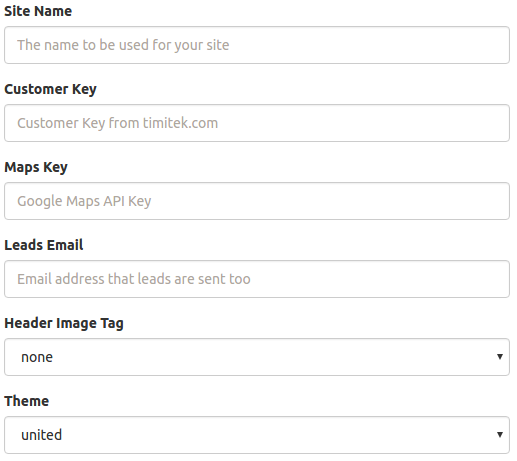
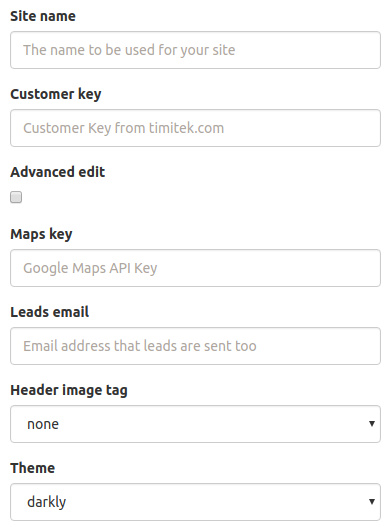
Updated documentation for WYSIWYG front end work

diff --git a/site/home_page_content/index.html b/site/home_page_content/index.html
@@ -260,8 +260,15 @@
 </li>
       
         <li class="md-nav__item">
-  <a href="#populating-content-with-the-blog-editor" title="Populating Content with the Blog Editor" class="md-nav__link">
-    Populating Content with the Blog Editor
+  <a href="#populating-content-with-the-modal-pop-up-dialogue-simple-edit-form" title="Populating Content with the Modal Pop-Up Dialogue (Simple Edit Form)" class="md-nav__link">
+    Populating Content with the Modal Pop-Up Dialogue (Simple Edit Form)
+  </a>
+  
+</li>
+      
+        <li class="md-nav__item">
+  <a href="#populating-content-with-the-blog-editor-advanced-edit" title="Populating Content with the Blog Editor (Advanced Edit)" class="md-nav__link">
+    Populating Content with the Blog Editor (Advanced Edit)
   </a>
   
 </li>
@@ -395,8 +402,15 @@
 </li>
       
         <li class="md-nav__item">
-  <a href="#populating-content-with-the-blog-editor" title="Populating Content with the Blog Editor" class="md-nav__link">
-    Populating Content with the Blog Editor
+  <a href="#populating-content-with-the-modal-pop-up-dialogue-simple-edit-form" title="Populating Content with the Modal Pop-Up Dialogue (Simple Edit Form)" class="md-nav__link">
+    Populating Content with the Modal Pop-Up Dialogue (Simple Edit Form)
+  </a>
+  
+</li>
+      
+        <li class="md-nav__item">
+  <a href="#populating-content-with-the-blog-editor-advanced-edit" title="Populating Content with the Blog Editor (Advanced Edit)" class="md-nav__link">
+    Populating Content with the Blog Editor (Advanced Edit)
   </a>
   
 </li>
@@ -444,10 +458,14 @@
 <p><img alt="homepage.png" src="../../img/screenshots/homepage.png" title="Home Page" /></p>
 <h2 id="editable-sections-click-and-build">Editable Sections (Click and Build)<a class="headerlink" href="#editable-sections-click-and-build" title="Permanent link">#</a></h2>
 <p>If you are logged in as an administrator (from the <strong>login</strong> button at the bottom of the website), each editable section will provide you with a button allowing you to create / edit content, as seen in the examples below.</p>
+<p>By default simple editing is enabled which will allow you to edit in place without leaving the home page via a simple modal pop-up dialogue.  If you have advanced editing enabled, you can perform more advanced editing features by being redirected to the back end editors from the quarx admin backend. For more information on this setting see <em>Advanced Edit</em> within the <a href="../Dashboard/post_installation">Post Installation</a> section.</p>
 <p><img alt="welcome_create_now.png" src="../../img/screenshots/welcome_create_now.png" title="Welcome Create Now" /></p>
 <p><img alt="featured_create_now.png" src="../../img/screenshots/featured_create_now.png" title="Featured Create Now" /></p>
-<h2 id="populating-content-with-the-blog-editor">Populating Content with the Blog Editor<a class="headerlink" href="#populating-content-with-the-blog-editor" title="Permanent link">#</a></h2>
-<p>When you click on of the create / edit buttons, you will be taken to the <strong>blog editor</strong>.  Even though you may not be interested in creating a blog, the blog editor is used to create content for these various sections on your website.  The blog editor allows us to associate tags with content you create.  Notice the instructions within each section that is able to be edited. There is mention of tagging a blog post with a specific word in order to have the content show up in this provided section.  This is how you are able create custom content within these sections on your home page.  </p>
+<h2 id="populating-content-with-the-modal-pop-up-dialogue-simple-edit-form">Populating Content with the Modal Pop-Up Dialogue (Simple Edit Form)<a class="headerlink" href="#populating-content-with-the-modal-pop-up-dialogue-simple-edit-form" title="Permanent link">#</a></h2>
+<p><img alt="simple_edit_form.png" src="../../img/screenshots/simple_edit_form.png" title="Simple Edit Form" /></p>
+<p>When simple editing is enabled (by default), you will be presented with a modal pop-up dialogue allowing you to edit the content in place.  You can specify a title, an icon to associate with the content, the general body of the content, as well as the ability to create links to the content with various sections on the home page via the <em>Also Post In</em> options.</p>
+<h2 id="populating-content-with-the-blog-editor-advanced-edit">Populating Content with the Blog Editor (Advanced Edit)<a class="headerlink" href="#populating-content-with-the-blog-editor-advanced-edit" title="Permanent link">#</a></h2>
+<p>When advanced editing is enabled, you will be directed to the "Blog Editor" within the quarx admin backend when you click on of the create / edit buttons, you will be taken to the <strong>blog editor</strong>.  Even though you may not be interested in creating a blog, the blog editor is used to create content for these various sections on your website.  The blog editor allows us to associate tags with content you create.  Notice the instructions within each section that is able to be edited. There is mention of tagging a blog post with a specific word in order to have the content show up in this provided section.  This is how you are able create custom content within these sections on your home page.  </p>
 <p>Content can be created with multiple tags associated with it to allow it to appear in multiple sections within the website.</p>
 <p>Some of the sections also provide special instructions for icons and images if used as the first element in the content.  Example, the <strong>feature</strong> section will prominently display an icon above it's section if an icon is provided as the first element in the content.  A testimonial will prominently display an image beside the testimonial if it is the first element in the content. Icon's can be inserted into the content by selecting the "icon editor" from the blog editors toolbar (<em>represented by the smiley face</em>).</p>
 <p><img alt="icon_toolbar.png" src="../../img/screenshots/icon_toolbar.png" title="Icon Toolbar" /></p>

diff --git a/site/Dashboard/getrealt_settings/index.html b/site/Dashboard/getrealt_settings/index.html
@@ -355,9 +355,10 @@
 <p><img alt="getrealt_settings.png" src="../../img/screenshots/getrealt_settings.png" title="GetRealT Settings" /></p>
 <p><strong>Site Name</strong> - This is the main identifier for your site.  This will be used in e-mails that go out, and displayed in the heading of your home page.</p>
 <p><strong>Customer Key</strong> - This is the customer key assigned to you from timitek that is used to provide the listing feeds to your site.  You can obtain your key at <a href="http://www.timitek.com">http://www.timitek.com</a>.</p>
+<p><strong>Advanced Edit</strong> - Advanced editing takes place in the quarx admin backend, when advanced editing is disable (unchecked), all edit buttons will present a dialogue box on the home page to allow basic editing functions without having to leave the webiste front end.</p>
 <p><strong>Maps Key</strong> - This the google maps API key that is necessary for displaying maps and directions on your listing details page.  You can obtain your google maps API key at <a href="https://developers.google.com/maps/documentation/javascript/get-api-key">https://developers.google.com/maps/documentation/javascript/get-api-key</a>.</p>
+<p><strong>Header Image Tag</strong> - There is a default set of abstract images that will be displayed at the top of the pages on your site, however you can override this with all images that have been uploaded with a specific tag associated with them.</p>
 <p><strong>Leads Email</strong> - This is the email address that any leads which are captured will be sent too.</p>
-<p><strong>Header Image Tag</strong> - This allows you to override the random images that appear at the top of your website pages, with images from your gallery.  The list of tags which are presented are tags assigned to images from your gallery.</p>
 <p><strong>Theme</strong> - This is the the theme that defines the look and feel of your website.</p>
                 
                   

diff --git a/site/post_installation/index.html b/site/post_installation/index.html
@@ -516,7 +516,9 @@
 <p><img alt="getrealt_settings.png" src="../../img/screenshots/getrealt_settings.png" title="GetRealT Settings" /></p>
 <p><strong>Site Name</strong> - This is the main identifier for your site.  This will be used in e-mails that go out, and displayed in the heading of your home page.</p>
 <p><strong>Customer Key</strong> - This is the customer key assigned to you from timitek that is used to provide the listing feeds to your site.  You can obtain your key at <a href="http://www.timitek.com">http://www.timitek.com</a>.</p>
+<p><strong>Advanced Edit</strong> - Advanced editing takes place in the quarx admin backend, when advanced editing is disable (unchecked), all edit buttons will present a dialogue box on the home page to allow basic editing functions without having to leave the webiste front end.</p>
 <p><strong>Maps Key</strong> - This the google maps API key that is necessary for displaying maps and directions on your listing details page.  You can obtain your google maps API key at <a href="https://developers.google.com/maps/documentation/javascript/get-api-key">https://developers.google.com/maps/documentation/javascript/get-api-key</a>.</p>
+<p><strong>Header Image Tag</strong> - There is a default set of abstract images that will be displayed at the top of the pages on your site, however you can override this with all images that have been uploaded with a specific tag associated with them.</p>
 <p><strong>Leads Email</strong> - This is the email address that any leads which are captured will be sent too.</p>
 <p><strong>Theme</strong> - This is the the theme that defines the look and feel of your website.</p>
                 

diff --git a/docs/home_page_content.md b/docs/home_page_content.md
@@ -9,13 +9,21 @@ After installing GetRealT your default home page shows example content you are a
 
 If you are logged in as an administrator (from the **login** button at the bottom of the website), each editable section will provide you with a button allowing you to create / edit content, as seen in the examples below.
 
+By default simple editing is enabled which will allow you to edit in place without leaving the home page via a simple modal pop-up dialogue.  If you have advanced editing enabled, you can perform more advanced editing features by being redirected to the back end editors from the quarx admin backend. For more information on this setting see *Advanced Edit* within the [Post Installation](./Dashboard/post_installation) section.
+
 ![welcome_create_now.png](../img/screenshots/welcome_create_now.png "Welcome Create Now")
 
 ![featured_create_now.png](../img/screenshots/featured_create_now.png "Featured Create Now")
 
-## Populating Content with the Blog Editor
+## Populating Content with the Modal Pop-Up Dialogue (Simple Edit Form)
 
-When you click on of the create / edit buttons, you will be taken to the **blog editor**.  Even though you may not be interested in creating a blog, the blog editor is used to create content for these various sections on your website.  The blog editor allows us to associate tags with content you create.  Notice the instructions within each section that is able to be edited. There is mention of tagging a blog post with a specific word in order to have the content show up in this provided section.  This is how you are able create custom content within these sections on your home page.  
+![simple_edit_form.png](../img/screenshots/simple_edit_form.png "Simple Edit Form")
+
+When simple editing is enabled (by default), you will be presented with a modal pop-up dialogue allowing you to edit the content in place.  You can specify a title, an icon to associate with the content, the general body of the content, as well as the ability to create links to the content with various sections on the home page via the *Also Post In* options.
+
+## Populating Content with the Blog Editor (Advanced Edit)
+
+When advanced editing is enabled, you will be directed to the "Blog Editor" within the quarx admin backend when you click on of the create / edit buttons, you will be taken to the **blog editor**.  Even though you may not be interested in creating a blog, the blog editor is used to create content for these various sections on your website.  The blog editor allows us to associate tags with content you create.  Notice the instructions within each section that is able to be edited. There is mention of tagging a blog post with a specific word in order to have the content show up in this provided section.  This is how you are able create custom content within these sections on your home page.  
 
 Content can be created with multiple tags associated with it to allow it to appear in multiple sections within the website.
 

diff --git a/docs/Dashboard/getrealt_settings.md b/docs/Dashboard/getrealt_settings.md
@@ -10,10 +10,12 @@ From the GetRealT settings page, you can specify customizations and additional s
 
 **Customer Key** - This is the customer key assigned to you from timitek that is used to provide the listing feeds to your site.  You can obtain your key at [http://www.timitek.com](http://www.timitek.com "").
 
+**Advanced Edit** - Advanced editing takes place in the quarx admin backend, when advanced editing is disable (unchecked), all edit buttons will present a dialogue box on the home page to allow basic editing functions without having to leave the webiste front end.
+
 **Maps Key** - This the google maps API key that is necessary for displaying maps and directions on your listing details page.  You can obtain your google maps API key at [https://developers.google.com/maps/documentation/javascript/get-api-key](https://developers.google.com/maps/documentation/javascript/get-api-key "").
 
-**Leads Email** - This is the email address that any leads which are captured will be sent too.
+**Header Image Tag** - There is a default set of abstract images that will be displayed at the top of the pages on your site, however you can override this with all images that have been uploaded with a specific tag associated with them.
 
-**Header Image Tag** - This allows you to override the random images that appear at the top of your website pages, with images from your gallery.  The list of tags which are presented are tags assigned to images from your gallery.
+**Leads Email** - This is the email address that any leads which are captured will be sent too.
 
 **Theme** - This is the the theme that defines the look and feel of your website.

diff --git a/docs/post_installation.md b/docs/post_installation.md
@@ -52,7 +52,11 @@ From the GetRealT settings page, you can specify customizations and additional s
 
 **Customer Key** - This is the customer key assigned to you from timitek that is used to provide the listing feeds to your site.  You can obtain your key at [http://www.timitek.com](http://www.timitek.com "").
 
+**Advanced Edit** - Advanced editing takes place in the quarx admin backend, when advanced editing is disable (unchecked), all edit buttons will present a dialogue box on the home page to allow basic editing functions without having to leave the webiste front end.
+
 **Maps Key** - This the google maps API key that is necessary for displaying maps and directions on your listing details page.  You can obtain your google maps API key at [https://developers.google.com/maps/documentation/javascript/get-api-key](https://developers.google.com/maps/documentation/javascript/get-api-key "").
+
+**Header Image Tag** - There is a default set of abstract images that will be displayed at the top of the pages on your site, however you can override this with all images that have been uploaded with a specific tag associated with them.
 
 **Leads Email** - This is the email address that any leads which are captured will be sent too.
 
